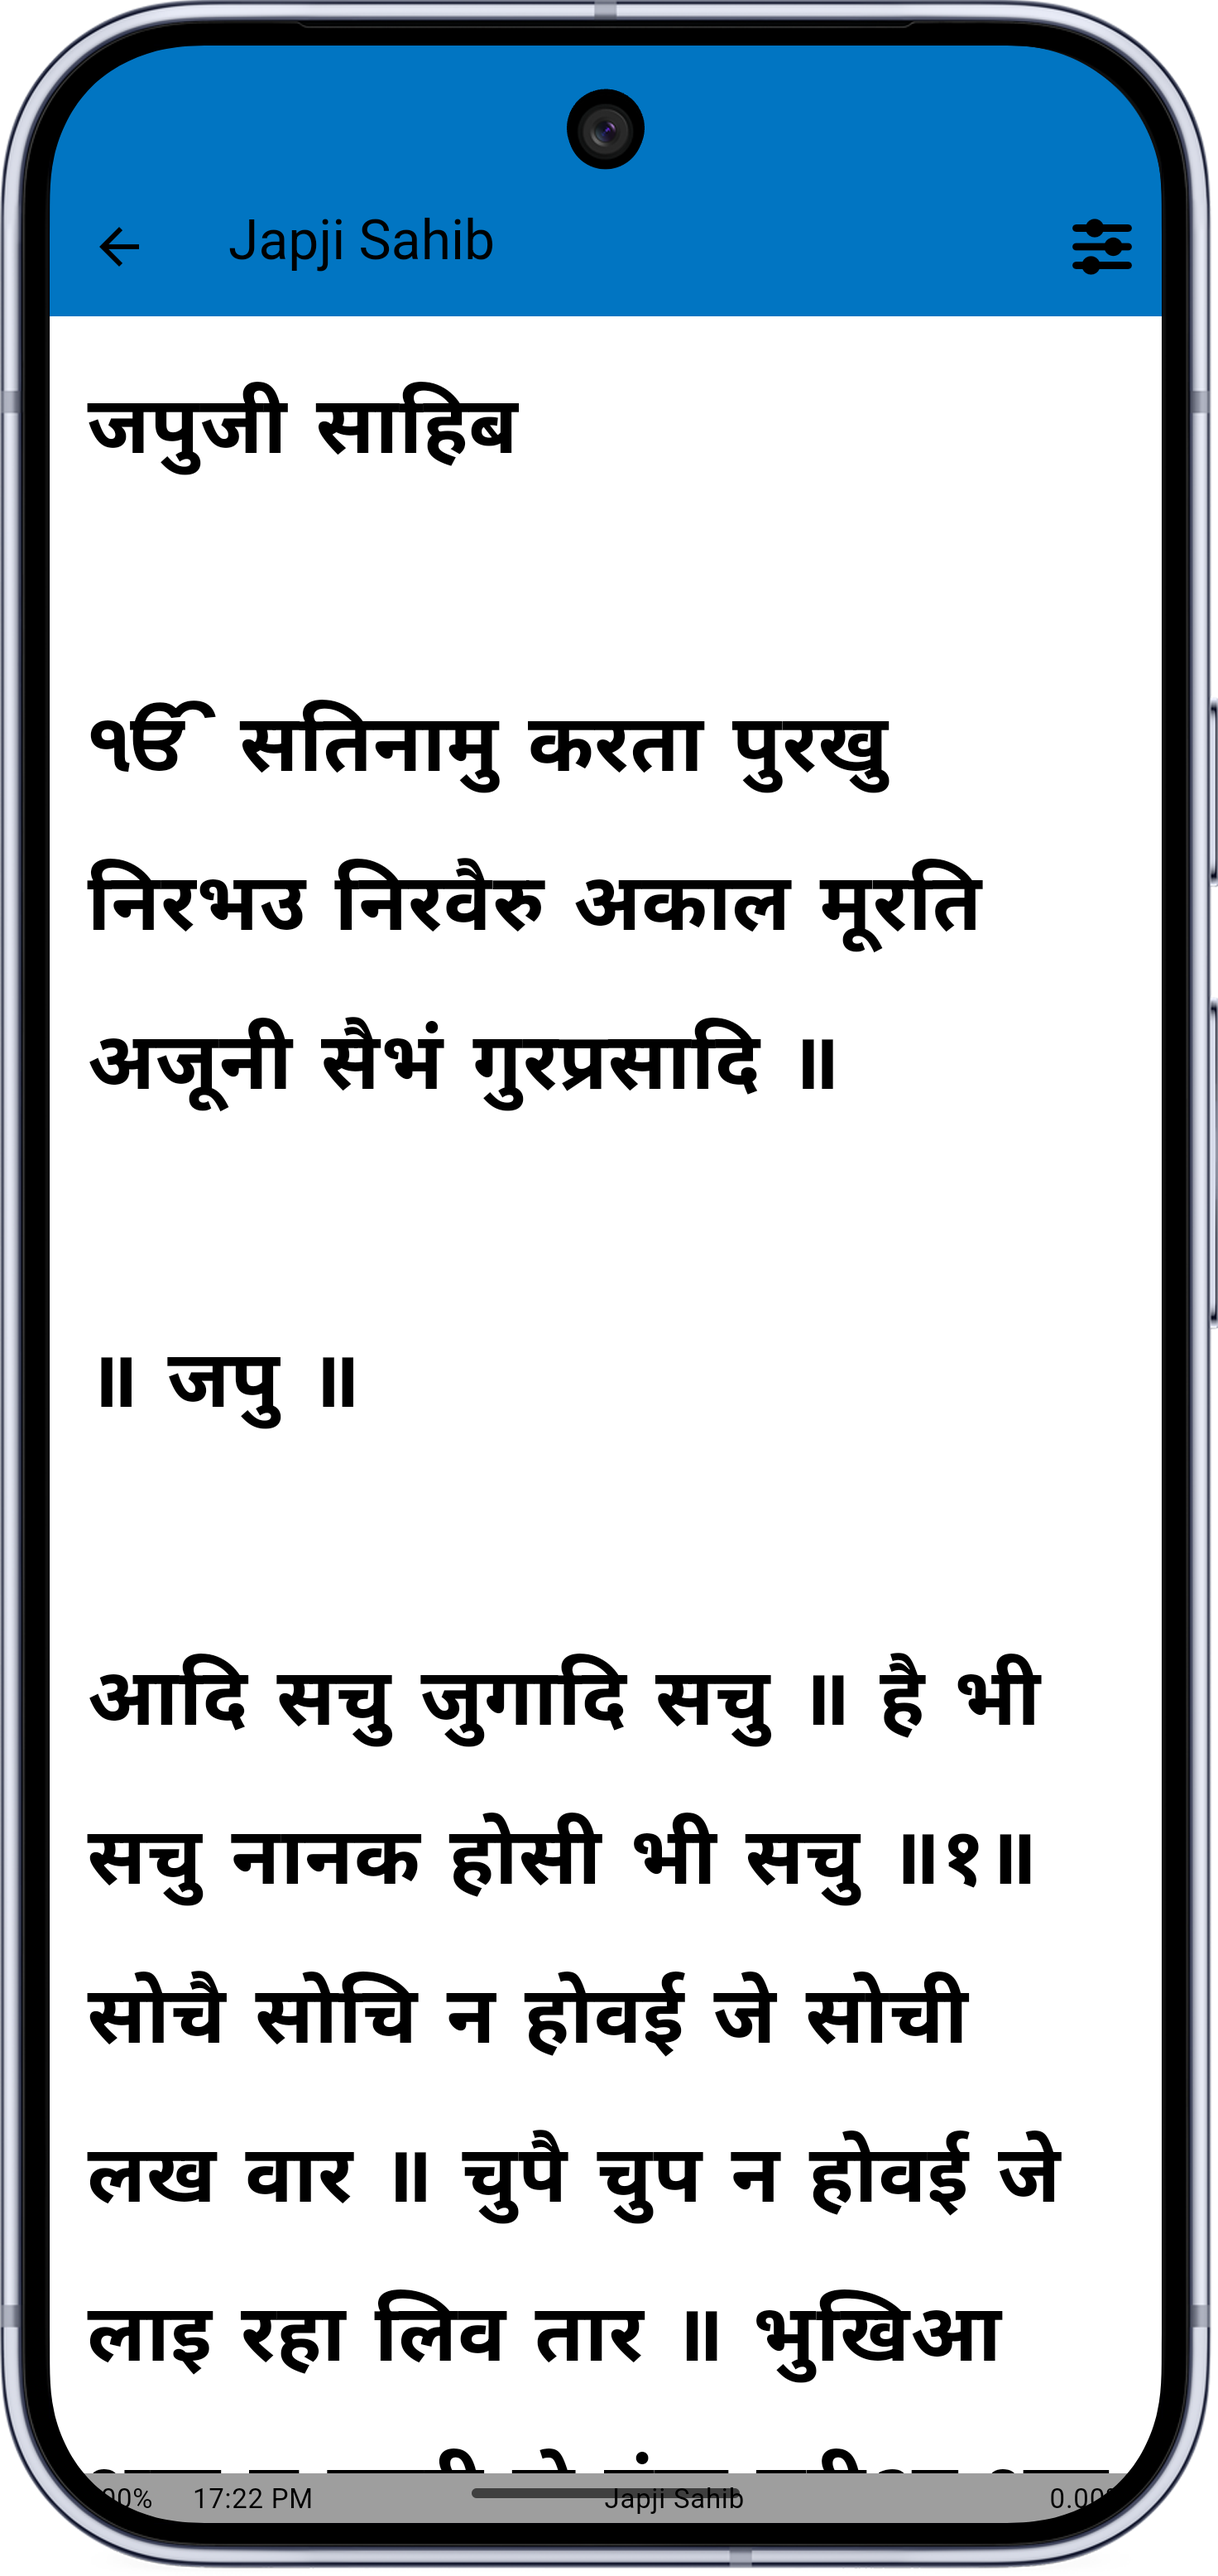
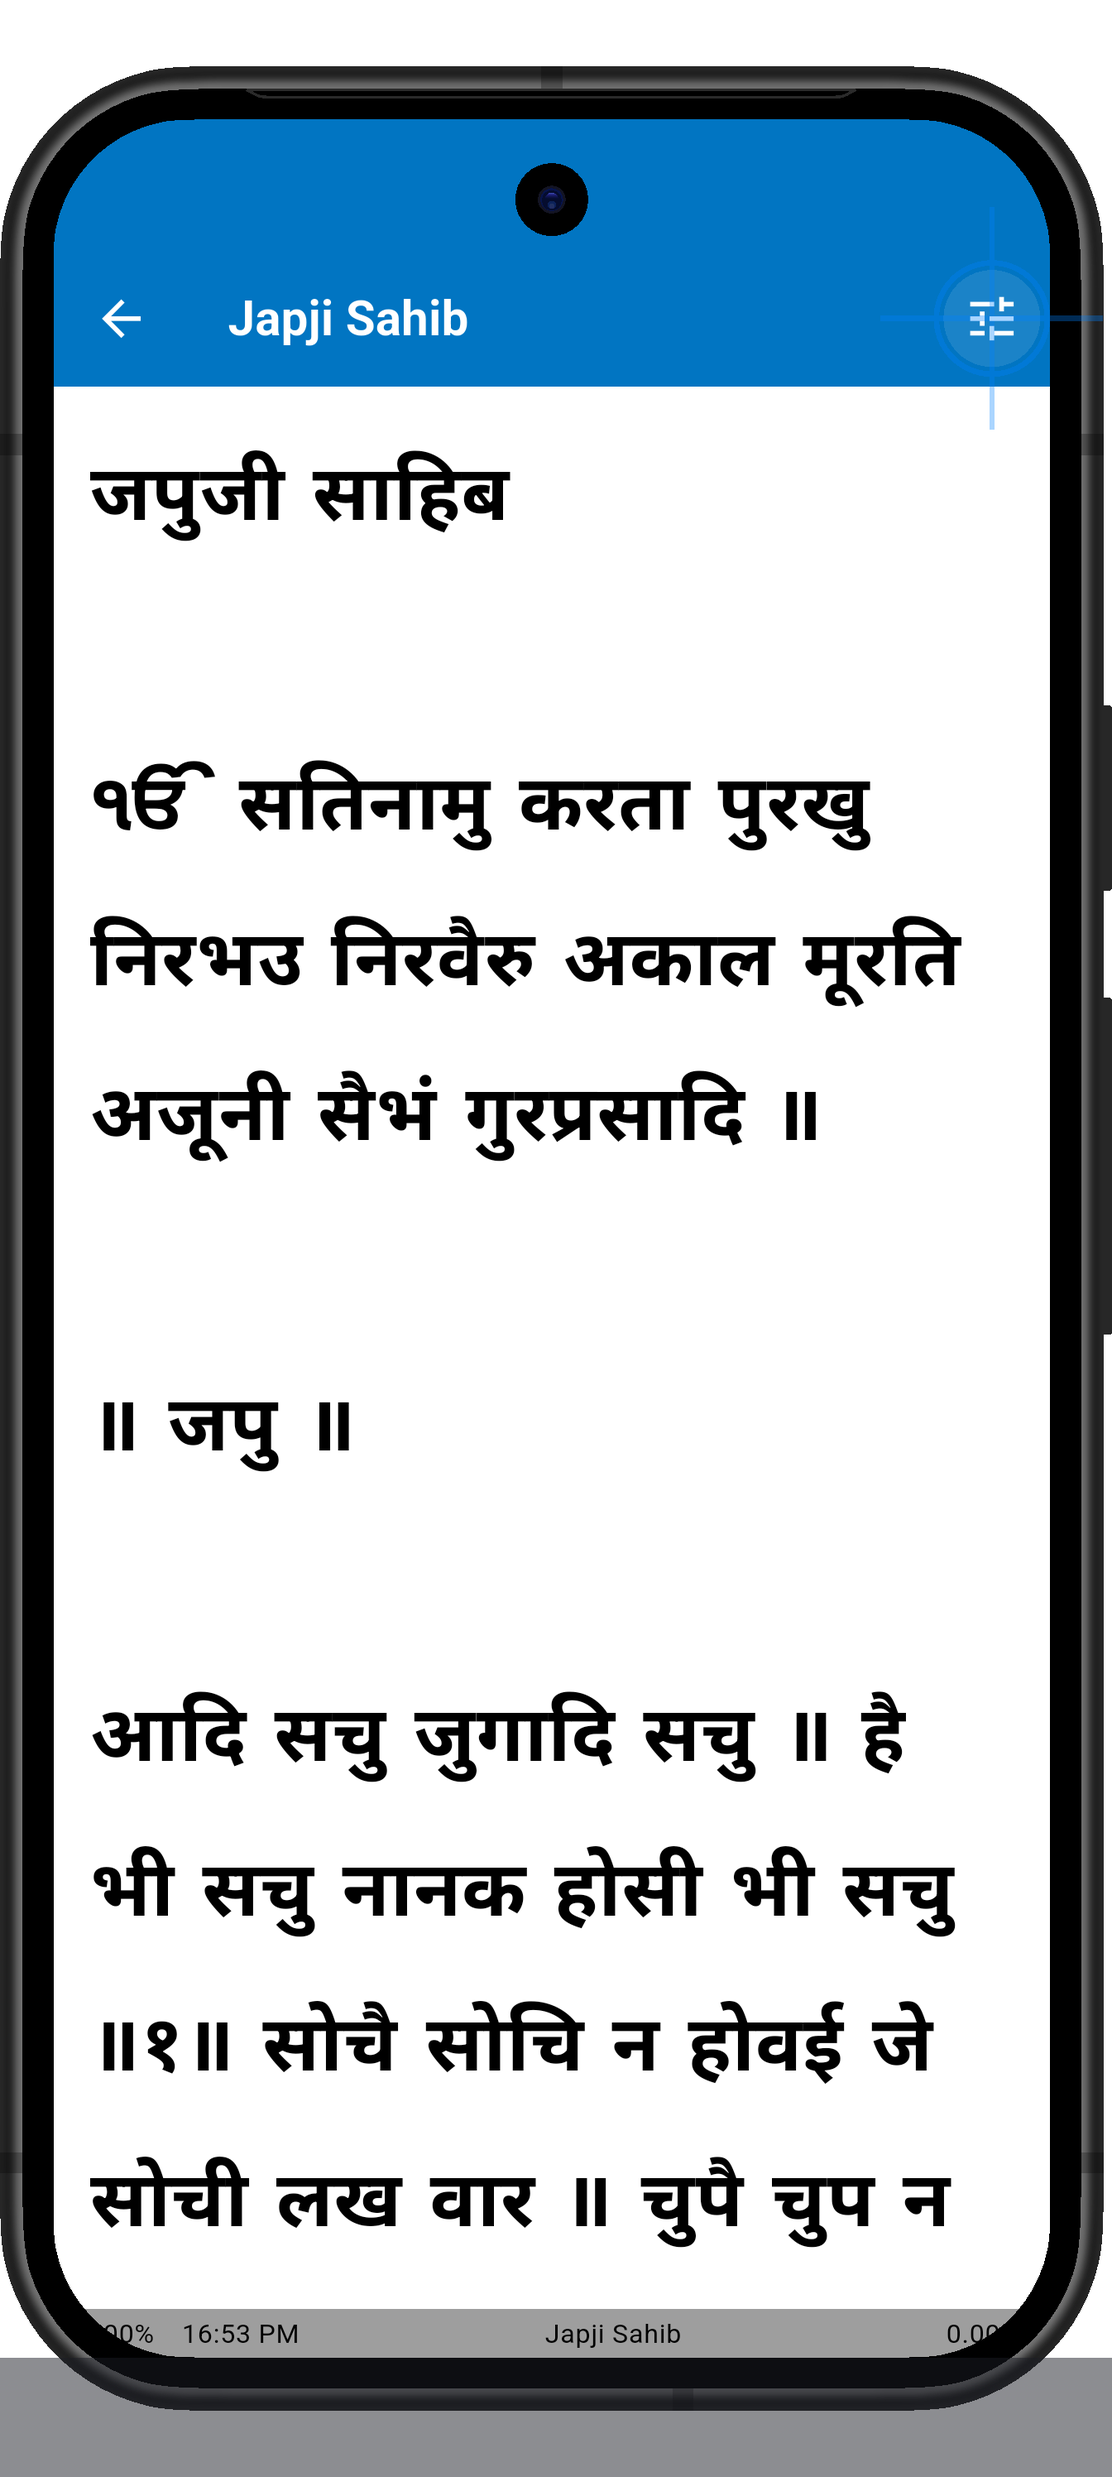
Refactor screenshot tests to improve theme selection and state management; update reader screen to utilize theme from ViewModel

diff --git a/integration_test/screenshot_test.dart b/integration_test/screenshot_test.dart
@@ -2,8 +2,7 @@ import 'package:flutter/material.dart';
 import 'package:flutter_test/flutter_test.dart';
 import 'package:integration_test/integration_test.dart';
 import 'package:nitnem/app.dart';
-import 'package:nitnem/data/pathtiledata.dart';
-import 'package:nitnem/models/themes.dart';
+import 'package:nitnem/pages/readerscreen.dart';
 import 'package:nitnem/persistence/persistence.dart';
 import 'package:nitnem/redux/actions/actions.dart';
 import 'package:nitnem/redux/store/store.dart';
@@ -26,6 +25,7 @@ void main() {
     store.dispatch(ToggleStatusAction(true));
     store.dispatch(ToggleScreenAwakeAction(true));
     store.dispatch(ToggleReadingPositionSaveAction(true));
+    store.dispatch(TextScaleAction(1.33));
     
     await tester.pumpWidget(
       Directionality(
@@ -68,30 +68,33 @@ void main() {
     await binding.convertFlutterSurfaceToImage();
     await tester.pump(const Duration(milliseconds: 500));
 
-    // 1. Main Screen
-    print('📸 Capturing Main Screen...');
-    await binding.takeScreenshot('mainscreen');
-    await tester.pump(const Duration(milliseconds: 500));
-
-    // 2. Options (Home Screen Backdrop)
-    print('🔘 Tapping Options toggle...');
+    // 1. Options (Home Screen Backdrop)
+    print('🎨 Selecting Default Theme via UI...');
     final backdropToggle = find.byType(BackdropToggleButton).first;
     await tester.tap(backdropToggle);
-    await tester.pump(const Duration(milliseconds: 1000));
+    await tester.pumpAndSettle();
+
+    final defaultTheme = find.widgetWithText(ChoiceChip, 'Default', skipOffstage: false).last;
+    await tester.ensureVisible(defaultTheme);
+    await tester.pumpAndSettle();
+    await tester.tap(defaultTheme, warnIfMissed: false);
     await tester.pumpAndSettle();
 
     print('📸 Capturing Options Screen...');
     await binding.takeScreenshot('options');
     await tester.pump(const Duration(milliseconds: 500));
 
-    // Close backdrop to return to main list
-    print('🔘 Closing Options toggle...');
+    // 2. Main Screen
+    print('🔘 Closing options menu...');
     await tester.tap(backdropToggle);
     await tester.pumpAndSettle();
 
+    print('📸 Capturing Main Screen...');
+    await binding.takeScreenshot('mainscreen');
+    await tester.pump(const Duration(milliseconds: 500));
+
     // 3. Reader Screen (Gurmukhi) - Tap 'Japji Sahib'
     print('📖 Opening Japji Sahib...');
-    final japjiSahibTile = PathTileData.items.first;
     await tester.tap(find.text('Japji Sahib'));
     await tester.pumpAndSettle();
 
@@ -99,9 +102,50 @@ void main() {
     await binding.takeScreenshot('path-gurmukhi');
     await tester.pump(const Duration(milliseconds: 500));
 
+    // Helper to tap and wait for state change
+    Future<void> tapChip(String label, {bool isTheme = false, String? expectedValue}) async {
+      print('🔘 Selecting ${isTheme ? "theme" : "language"}: $label...');
+      
+      final String targetValue = isTheme ? expectedValue! : label;
+      
+      // Use dispatch directly for maximum reliability in reader screen
+      // UI tapping in a nested ListView within a SliverAppBar under DeviceFrame is inherently flaky
+      if (isTheme) {
+        store.dispatch(ChangeThemeAction(targetValue));
+      } else {
+        store.dispatch(ChangeLanguageAndFetchNitnemPathAction(targetValue, store.state.pathFilePrefix));
+      }
+      
+      // Wait for state change and any async work
+      for (int i = 0; i < 20; i++) {
+        await tester.pump(const Duration(milliseconds: 200));
+        final currentState = isTheme ? store.state.options.themeName : store.state.options.languageName;
+        if (currentState == targetValue) {
+          print('✅ State confirmed updated to $targetValue');
+          break;
+        }
+      }
+      
+      await tester.pumpAndSettle();
+      // Additional wait for potential asset loading (background image or path text)
+      await tester.pump(const Duration(seconds: 1));
+      await tester.pumpAndSettle();
+    }
+
     // 4. Path Hindi
-    print('🔘 Switching to Hindi...');
-    store.dispatch(FetchNitnemPathAction(japjiSahibTile, 'Hindi'));
+    print('🔘 Switching to Hindi via UI...');
+    await tester.pump(const Duration(seconds: 1));
+    final optionsButton = find.byKey(const Key('reader_options_button'), skipOffstage: false).last;
+    
+    print('🔘 Opening options menu...');
+    await tester.tap(optionsButton, warnIfMissed: false);
+    await tester.pumpAndSettle();
+    
+    await tapChip('Hindi');
+
+    // Close options to see the text
+    print('🔘 Closing options menu...');
+    await tester.tap(optionsButton, warnIfMissed: false);
     await tester.pumpAndSettle();
 
     print('📸 Capturing Path Hindi...');
@@ -109,8 +153,14 @@ void main() {
     await tester.pump(const Duration(milliseconds: 500));
 
     // 5. Path English
-    print('🔘 Switching to English...');
-    store.dispatch(FetchNitnemPathAction(japjiSahibTile, 'English'));
+    print('🔘 Switching to English via UI...');
+    await tester.tap(optionsButton, warnIfMissed: false);
+    await tester.pumpAndSettle();
+    
+    await tapChip('English');
+    
+    // Close options
+    await tester.tap(optionsButton, warnIfMissed: false);
     await tester.pumpAndSettle();
 
     print('📸 Capturing Path English...');
@@ -120,30 +170,60 @@ void main() {
     // --- Themes ---
     
     // 6. Forest Theme
-    print('🎨 Switching to Forest Theme...');
-    store.dispatch(ChangeThemeAction(ThemeName.Forest.toString()));
+    print('🎨 Switching to Forest Theme via UI...');
+    await tester.tap(optionsButton, warnIfMissed: false);
+    await tester.pumpAndSettle();
+    
+    await tapChip('Forest', isTheme: true, expectedValue: 'ThemeName.Forest');
+    
+    // Close options
+    await tester.tap(optionsButton, warnIfMissed: false);
     await tester.pumpAndSettle();
     
     print('📸 Capturing Forest Theme...');
     await binding.takeScreenshot('foresttheme');
     await tester.pump(const Duration(milliseconds: 500));
 
-    // 7. Stars Theme (Dark)
-    print('🎨 Switching to Stars Theme...');
-    store.dispatch(ChangeThemeAction(ThemeName.Stars.toString()));
+    // 7. Wood Theme
+    print('🎨 Switching to Wood Theme via UI...');
+    await tester.tap(optionsButton, warnIfMissed: false);
     await tester.pumpAndSettle();
-
-    print('📸 Capturing Dark Theme...');
-    await binding.takeScreenshot('darktheme');
-    await tester.pump(const Duration(milliseconds: 500));
-
-    // 8. Wood Theme
-    print('🎨 Switching to Wood Theme...');
-    store.dispatch(ChangeThemeAction(ThemeName.Wood.toString()));
+    
+    await tapChip('Wood', isTheme: true, expectedValue: 'ThemeName.Wood');
+    
+    // Close options
+    await tester.tap(optionsButton, warnIfMissed: false);
     await tester.pumpAndSettle();
 
     print('📸 Capturing Wood Theme...');
     await binding.takeScreenshot('woodtheme');
+    await tester.pump(const Duration(milliseconds: 500));
+
+    // 8. Stars Theme (Dark) on Main Screen
+    print('🏠 Going back to Home Screen for Dark Theme...');
+    final BuildContext readerContext = tester.element(find.byType(ReaderScreen));
+    Navigator.of(readerContext).pop();
+    await tester.pumpAndSettle();
+
+    print('🎨 Switching to Stars Theme (Dark) via UI...');
+    // Open home screen backdrop options
+    final homeBackdropToggle = find.byType(BackdropToggleButton).first;
+    await tester.tap(homeBackdropToggle);
+    await tester.pumpAndSettle();
+
+    print('🔘 Selecting Stars theme...');
+    final starsTheme = find.widgetWithText(ChoiceChip, 'Stars', skipOffstage: false).last;
+    await tester.ensureVisible(starsTheme);
+    await tester.pumpAndSettle();
+    await tester.tap(starsTheme, warnIfMissed: false);
+    await tester.pumpAndSettle();
+
+    // Close backdrop
+    await tester.tap(homeBackdropToggle);
+    await tester.pumpAndSettle();
+
+    print('📸 Capturing Dark Theme (Main Screen)...');
+    await binding.takeScreenshot('darktheme');
     await tester.pump(const Duration(milliseconds: 500));
 
     print('✅ Screenshot generation complete!');

diff --git a/lib/pages/readerscreen.dart b/lib/pages/readerscreen.dart
@@ -237,11 +237,7 @@ class _MyReaderPageState extends State<ReaderScreen> with WidgetsBindingObserver
                     BlendMode.dstATop,
                   ),
                   image: new AssetImage(
-                    "assets/themes/" +
-                        StoreProvider.of<AppState>(
-                          context,
-                        ).state.options.themeName +
-                        ".jpg",
+                    "assets/themes/" + vm.themeName + ".jpg",
                   ),
                   repeat: ImageRepeat.repeat,
                 ),
@@ -473,6 +469,7 @@ class _MyReaderPageState extends State<ReaderScreen> with WidgetsBindingObserver
 class _ViewModel {
   final void Function() onToggleReaderOptions;
   final String languageName;
+  final String themeName;
   final bool showReaderOptions;
   final double textScaleValue;
   final bool isBold;
@@ -486,6 +483,7 @@ class _ViewModel {
   _ViewModel({
     required this.onToggleReaderOptions,
     required this.languageName,
+    required this.themeName,
     required this.showReaderOptions,
     required this.textScaleValue,
     required this.isBold,
@@ -503,6 +501,7 @@ class _ViewModel {
         store.dispatch(ToggleReaderOptionsAction());
       },
       languageName: languageSelector(store.state),
+      themeName: store.state.options.themeName,
       showReaderOptions: showReaderOptionSelector(store.state),
       textScaleValue: textScaleValueSelector(store.state),
       isBold: isBoldSelector(store.state),
@@ -521,6 +520,7 @@ class _ViewModel {
       other is _ViewModel &&
           runtimeType == other.runtimeType &&
           languageName == other.languageName &&
+          themeName == other.themeName &&
           showReaderOptions == other.showReaderOptions &&
           textScaleValue == other.textScaleValue &&
           isBold == other.isBold &&
@@ -534,6 +534,7 @@ class _ViewModel {
   int get hashCode =>
       runtimeType.hashCode ^
       languageName.hashCode ^
+      themeName.hashCode ^
       showReaderOptions.hashCode ^
       textScaleValue.hashCode ^
       isBold.hashCode ^
